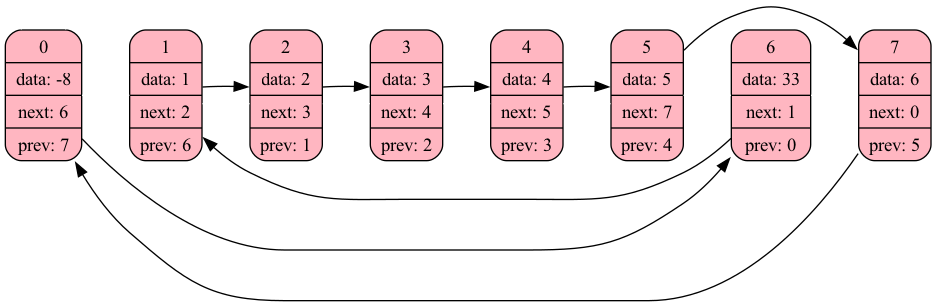
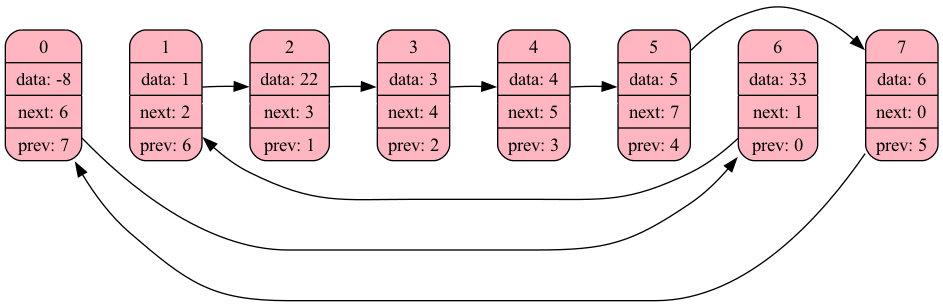
debug

diff --git a/list.cpp b/list.cpp
@@ -50,6 +50,14 @@ void ListDump (List* list)
     printf ("\n");
 }
 
+void ChangingListOfFree (List* list)
+{
+    list->list_free_elems[list->head_of_free].data = FILLED_ELEM;
+    Elem_list pre_head_of_free = list->head_of_free;
+    list->head_of_free = list->list_free_elems[list->head_of_free].next;
+    list->list_free_elems[pre_head_of_free].next = NO_CONNECTION;
+}
+
 void InsertBefore (List* list, int place_before, Elem_list number)
 {
     if (place_before < 1 || list->list_elem[place_before].prev == NO_CONNECTION)
@@ -70,10 +78,7 @@ void InsertBefore (List* list, int place_before, Elem_list number)
 
         list->list_elem[0].next = list->head;
 
-        list->list_free_elems[list->head_of_free].data = FILLED_ELEM;
-        Elem_list pre_head_of_free = list->head_of_free;
-        list->head_of_free = list->list_free_elems[list->head_of_free].next;
-        list->list_free_elems[list->head_of_free].next = NO_CONNECTION;
+        ChangingListOfFree (list);
         return;
     }
     // случай, когда вставляется перед элемпентом из середины
@@ -88,10 +93,25 @@ void InsertBefore (List* list, int place_before, Elem_list number)
     list->list_elem[place_before].prev = list->head_of_free;
 
     // элеменнт в который вставили становится занят
-    list->list_free_elems[list->head_of_free].data = FILLED_ELEM;
-    Elem_list pre_head_of_list = list->head_of_free;
-    list->head_of_free = list->list_free_elems[list->head_of_free].next;
-    list->list_free_elems[pre_head_of_list].next = NO_CONNECTION;
+    ChangingListOfFree (list);
+}
+
+void InsertAfter (List* list, int place_after, Elem_list number)
+{
+    if (place_after < 1 || list->list_elem[place_after].prev == NO_CONNECTION)
+    {
+        printf ("The element cannot be inserted into this place!\n");
+        return;
+    }
+
+    list->list_elem[list->head_of_free].data = number;
+    list->list_elem[list->head_of_free].next = list->list_elem[place_after].next;
+    list->list_elem[list->head_of_free].prev = place_after;
+
+    list->list_elem[list->list_elem[place_after].next].prev = list->head_of_free;
+    list->list_elem[place_after].next = list->head_of_free;
+
+    ChangingListOfFree (list);
 }
 
 void ListPush (List* list, Elem_list number)
@@ -108,10 +128,7 @@ void ListPush (List* list, Elem_list number)
         list->head = 1;
     }
 
-    list->list_free_elems[list->head_of_free].data = FILLED_ELEM;
-    Elem_list pre_head = list->head_of_free;
-    list->head_of_free = list->list_free_elems[list->head_of_free].next;
-    list->list_free_elems[pre_head].next = NO_CONNECTION;
+    ChangingListOfFree (list);
 }
 
 void Delete (List* list, int place)

diff --git a/list.h b/list.h
@@ -50,6 +50,8 @@ struct List
     Elem_list head_of_free;
 };
 
+void InsertAfter (List* list, int place_after, Elem_list number);
+void ChangingListOfFree (List* list);
 void DumpListNode(List* list_node);
 void ListPush (List* list, Elem_list num);
 void ListDtor (List* list);

diff --git a/main.cpp b/main.cpp
@@ -15,6 +15,8 @@ int main ()
     Delete (&list, 1);
     InsertBefore (&list, 2, 1);
     ListPush (&list, 6);
+    Delete (&list, 2);
+    InsertAfter (&list, 1, 22);
 
     DumpListNode(&list);
     ListDump (&list);
